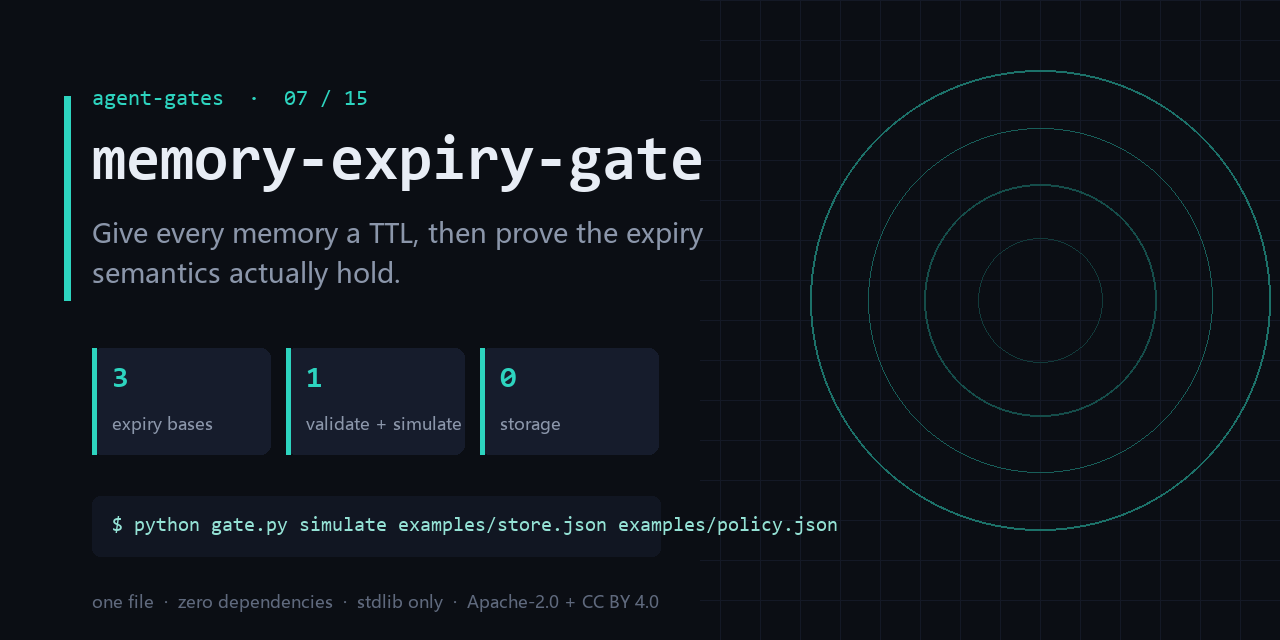
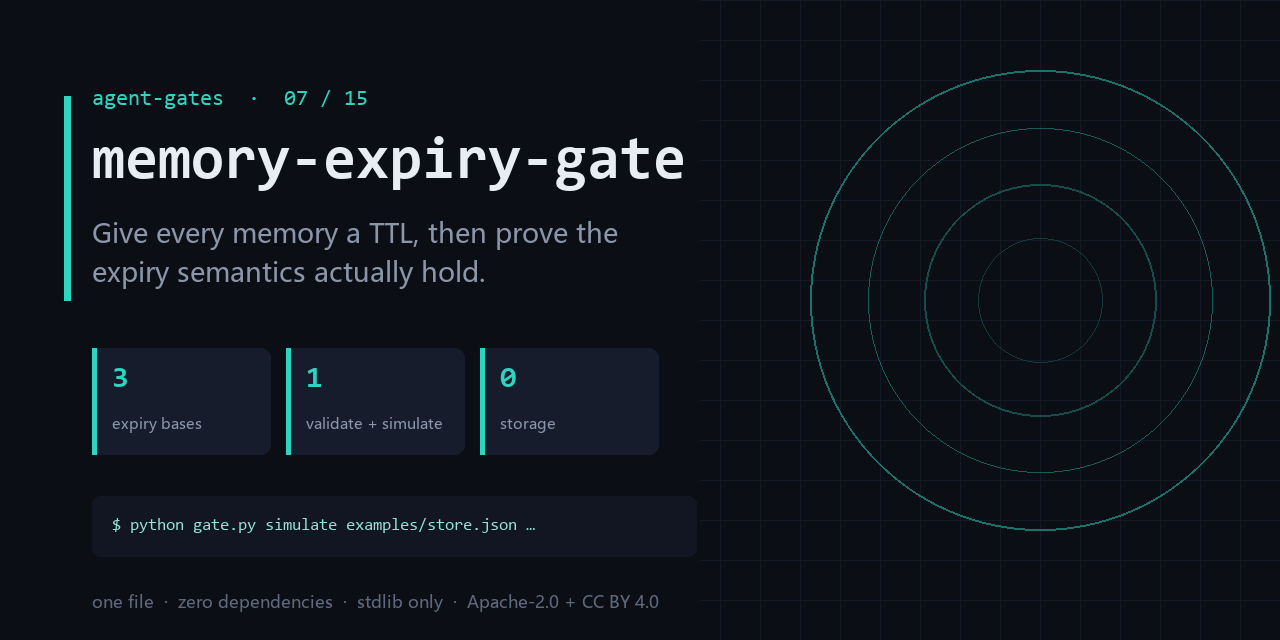
docs: add the series entry map, the hot-ready guarantee, and an honest surface line
Three changes, all of them about not overselling:

1. `## Start here` — fifteen links is a maze, one symptom is a door. A six-row
   symptom -> gate table, so the reader installs the gate they need instead of
   installing nothing (or all fifteen). Also states the star rule plainly:
   no exchange, no unlock, star trading is against GitHub's rules.
2. `## Hot-ready guarantee` — replaces "guaranteed to trend" with fifteen
   machine-checked structural properties, current score, and the script that
   recomputes them. GitHub never published its Trending ranking, so a promise
   about ranking cannot be true; a promise about structure can be verified.
3. The subtitle said `one file` on every repo. It was false on four of them
   (output-gate has 7 python files, complexity-ceiling 3, deadcode-gate and
   trail-gate 2). The line is now computed from the actual file count, and the
   same number is used on the social card. A false claim on the first screen
   costs more trust than it buys attention.

diff --git a/README.md b/README.md
@@ -107,6 +107,66 @@ mistaken for "it inspected my files".
 
 边界：It is a policy and semantics checker — it does not store your memories.
 
+### 互推：只装一个的话，装哪个
+
+十五个链接是迷宫，一个症状是门。按上表挑一个，其余九个在下面 [The gates](#the-gates)。
+每个仓都能单独活：复制 `gate.py`，一条命令跑完，不共享运行时、不装包、不加配置。
+有星就给这一个，没有也不影响任何仓的可用性——没有任何门是「先给星才能用」。
+
+### 热门前置：保证结构，不保证排名
+
+本页承诺的是 **15 项可机器复核的结构特征**，当前 **15/15**（2026-10-20 复核）。
+GitHub 从未公开 Trending 的排序算法，所以任何「保证上热门」的说法都在描述一件它不可能知道的事；
+本仓不这么说。跑 `python hotness.py` 可自行复算每一条。
+
+## Start here (if you install only one)
+
+Fifteen links is a maze; one symptom is a door. Find your symptom, install that gate,
+ignore the rest until it hurts.
+
+| what you are seeing | install this |
+|---|---|
+| the bill is 10x normal and the trace is a wall of the same step | **[loop-gate](https://github.com/chenhz01/loop-gate)** |
+| the agent can delete prod and nobody signed off on that | **[permission-gate](https://github.com/chenhz01/permission-gate)** |
+| answers get worse after truncation and nobody knows what got dropped | **[context-gate](https://github.com/chenhz01/context-gate)** |
+| two rules in the prompt contradict each other; the model obeys neither | **[instruction-gate](https://github.com/chenhz01/instruction-gate)** |
+| AI text ships with fabricated links and empty phrases | **[output-gate](https://github.com/chenhz01/output-gate)** |
+| half the repo might be dead and nobody can prove which half | **[deadcode-gate](https://github.com/chenhz01/deadcode-gate)** |
+
+A gate you did not need is a gate you uninstall, so nothing here says "install all
+fifteen". Each repo stands alone: copy `gate.py`, run one command, no shared runtime,
+no package manager, no config file to grow.
+
+**On stars.** If this one saved you an incident, star it — that is the only signal I get
+about which gate to build next. There is no exchange: starring one repo does not owe me
+a star on another, and no gate here is unlocked by a star. Star trading breaks GitHub's
+rules and would poison the single honest metric this project has.
+
+## Hot-ready guarantee
+
+What is guaranteed is **structure**, not ranking. Fifteen properties, each one
+machine-checked against this repo — current score **15/15** (2026-10-20).
+
+Plain version: instead of asking you to trust a badge, I list what I actually checked,
+name the script that checks it, and let you re-run it. If one of these lines is false,
+that is a bug in my repo, not a matter of taste.
+
+- Falsifiable side: `python hotness.py` re-runs every check and prints the evidence line
+  for each one. You do not have to trust this paragraph.
+- Non-falsifiable side: GitHub has never published how Trending sorts repositories, so
+  any repo promising you a guaranteed spot is telling you something it cannot know.
+  This one does not make that promise.
+- If a claim on this page stops being true, that is a bug: open an issue and it gets
+  fixed in the same week, not in the next launch.
+
+What actually carries this repo:
+
+- the command in this README is byte-for-byte the command CI runs <sub>(84-char argv, exact match)</sub>
+- the output block is a real run of `examples/`, not a mock-up <sub>(Real output section)</sub>
+- CI asserts the exit code, so the badge can turn red — and it has <sub>(asserts exit=0)</sub>
+- every fixture is committed, so a fresh clone reproduces the output <sub>(2 files under examples/ tracked in git)</sub>
+- `* -text` in `.gitattributes`: same bytes on Windows and Linux <sub>(.gitattributes * -text)</sub>
+
 ## The gates
 
 | # | gate | what it stops |
